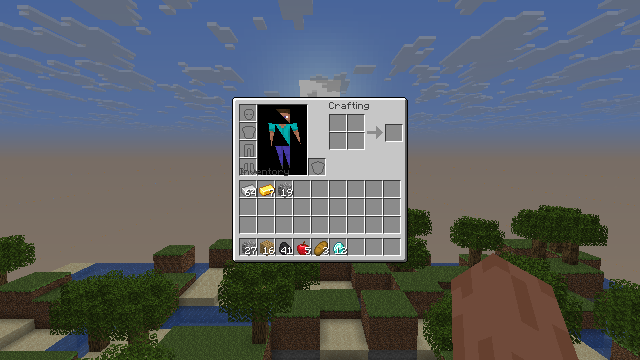
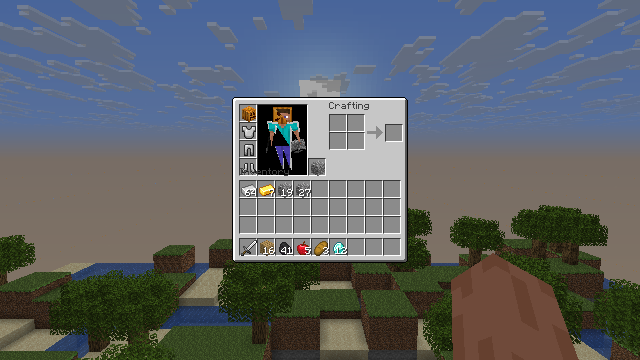
client: the mannequin's gear shot — the inventory staging dresses the PiP the whole layer stack the last four rounds shipped: the staging helper stage_inventory_loadout fills the store the shot recipe freezes (the SELECTED slot's iron sword the held-item lane rides, the carved pumpkin the head slot'

Changed region(s): [[0.375, 0.275, 0.5312, 0.55], [0.375, 0.6722, 0.4062, 0.7333]]

diff --git a/crates/mc-client/src/headless.rs b/crates/mc-client/src/headless.rs
@@ -1363,6 +1363,71 @@ pub fn tick_scene(
     Ok(())
 }
 
+/// THE INVENTORY SCREEN'S OWN STAGING LOADOUT: the offline world stands
+/// first (the mannequin's world beneath), then the store's demo loadout
+/// — the REAL gameplay state the dig lane's pickups fill (the hotbar
+/// row store 0..9, the main rows 9..36, the way the `--held-item` stage
+/// speaks for the hand) — plus THE GEAR SHOWCASE the mannequin lanes
+/// render: the SELECTED slot's iron sword the held-item lane rides
+/// (the thirdperson_righthand stanza the ItemStackRenderState submit
+/// folds), the four armor rows the armor + head-block lanes read (the
+/// carved pumpkin the head slot's item branch keeps, the iron kit the
+/// HumanoidArmorLayer walk renders), the offhand container 40 the
+/// left-hand mirror keeps. One frame, the whole PiP layer stack.
+fn stage_inventory_loadout(app: &mut crate::screens::App) {
+    app.enter_world();
+    let sword = mc_registry::item_id_by_name("iron_sword").expect("the registry speaks");
+    let pumpkin = mc_registry::item_id_by_name("carved_pumpkin").expect("the registry speaks");
+    let chest = mc_registry::item_id_by_name("iron_chestplate").expect("the registry speaks");
+    let legs = mc_registry::item_id_by_name("iron_leggings").expect("the registry speaks");
+    let boots = mc_registry::item_id_by_name("iron_boots").expect("the registry speaks");
+    app.inventory.items = [
+        (sword, 1), // the SELECTED slot — the mannequin's main hand rides it
+        (63, 16),   // oak_planks
+        (924, 41),  // coal
+        (921, 5),   // apple
+        (981, 3),   // bread
+        (926, 12),  // diamond
+        (0, 0),
+        (0, 0),
+        (0, 0), // the hotbar row's tail
+        (932, 64),  // iron_ingot
+        (936, 7),   // gold_ingot
+        (62, 19),   // cobblestone
+        (62, 27),   // the dig's own stack — the sword displaced it to the first free main row
+        (0, 0),
+        (0, 0),
+        (0, 0),
+        (0, 0),
+        (0, 0),
+        (0, 0),
+        (0, 0),
+        (0, 0),
+        (0, 0),
+        (0, 0),
+        (0, 0),
+        (0, 0),
+        (0, 0),
+        (0, 0),
+        (0, 0),
+        (0, 0),
+        (0, 0),
+        (0, 0),
+        (0, 0),
+        (0, 0),
+        (0, 0),
+        (0, 0),
+        (0, 0), // the main rows' tail
+    ];
+    app.inventory.armor = [
+        (pumpkin, 1), // the head slot — the carved face the head-block lane paints
+        (chest, 1),
+        (legs, 1),
+        (boots, 1), // the iron kit the armor layers wear
+    ];
+    app.inventory.offhand = [(62, 1)]; // the left hand's cobble — the offhand mirror lane
+}
+
 /// Render one deterministic GUI screen (boot chain / menus) to PNG.
 /// `frame` drives boot progress, splash pulse and music scheduling.
 /// `held_item` (a model id, e.g. "item/iron_sword") holds that item in
@@ -1864,50 +1929,12 @@ pub fn render_gui_screen_opts(
         "inventory" => {
             // THE E-KEY SCREEN'S OWN STAGING: the offline world stands
             // first (the mannequin's world beneath), then the store's
-            // demo loadout — the REAL gameplay state the dig lane's
-            // pickups fill, the shot staging pre-filling it the way the
-            // `--held-item` stage speaks for the hand (the hotbar row
-            // store 0..9, the main rows 9..36) — and the screen opens
-            // (the E key's own lane, the carried fresh-empty).
-            app.enter_world();
-            app.inventory.items = [
-                (62, 27),   // cobblestone
-                (63, 16),   // oak_planks
-                (924, 41),  // coal
-                (921, 5),   // apple
-                (981, 3),   // bread
-                (926, 12),  // diamond
-                (0, 0),
-                (0, 0),
-                (0, 0), // the hotbar row's tail
-                (932, 64),  // iron_ingot
-                (936, 7),   // gold_ingot
-                (62, 19),   // cobblestone
-                (0, 0),
-                (0, 0),
-                (0, 0),
-                (0, 0),
-                (0, 0),
-                (0, 0),
-                (0, 0),
-                (0, 0),
-                (0, 0),
-                (0, 0),
-                (0, 0),
-                (0, 0),
-                (0, 0),
-                (0, 0),
-                (0, 0),
-                (0, 0),
-                (0, 0),
-                (0, 0),
-                (0, 0),
-                (0, 0),
-                (0, 0),
-                (0, 0),
-                (0, 0),
-                (0, 0), // the main rows' tail
-            ];
+            // demo loadout PLUS the gear showcase the mannequin lanes
+            // render (the sword the held lane rides, the pumpkin + iron
+            // kit the armor walk wears, the offhand the left-hand mirror
+            // keeps) — and the screen opens (the E key's own lane, the
+            // carried fresh-empty).
+            stage_inventory_loadout(&mut app);
             app.hotbar_slots = app.inventory.hotbar();
             app.open_inventory();
             app.frame = frame;
@@ -2191,6 +2218,54 @@ mod tests {
         assert!(app.body.is_none());
         assert!(app.mobs.is_empty());
         assert!(app.perspective.is_first_person());
+    }
+
+    /// THE GEAR SHOWCASE's own store: the inventory staging the shot
+    /// recipe speaks dresses the mannequin through the SAME rows the
+    /// PiP lanes read — the SELECTED slot's sword the held-item lane
+    /// rides, the four armor rows the armor + head-block lanes read,
+    /// the offhand container the left-hand mirror keeps, the dig's
+    /// displaced cobble the first free main row holds (the loadout's
+    /// own honesty: a replaced stack is never lost), the HUD row the
+    /// hotbar sync law keeps.
+    #[test]
+    fn the_inventory_staging_dresses_the_mannequin() {
+        let mut app = crate::screens::App::new(3);
+        stage_inventory_loadout(&mut app);
+        let sword = mc_registry::item_id_by_name("iron_sword").unwrap();
+        let pumpkin = mc_registry::item_id_by_name("carved_pumpkin").unwrap();
+        let chest = mc_registry::item_id_by_name("iron_chestplate").unwrap();
+        let legs = mc_registry::item_id_by_name("iron_leggings").unwrap();
+        let boots = mc_registry::item_id_by_name("iron_boots").unwrap();
+        // the SELECTED slot holds the sword — the held-item lane's main
+        // hand (selected_hotbar defaults 0, the rest pose's own lane)
+        assert_eq!(
+            app.inventory.items[app.selected_hotbar],
+            (sword, 1),
+            "the mannequin's main hand holds the sword"
+        );
+        // the four armor rows: the carved pumpkin the head-block lane
+        // paints, the iron kit the armor layers wear
+        assert_eq!(
+            app.inventory.armor,
+            [(pumpkin, 1), (chest, 1), (legs, 1), (boots, 1)],
+            "the mannequin wears the pumpkin + the iron kit"
+        );
+        // the offhand container 40 — the left-hand mirror's stack
+        assert_eq!(
+            app.inventory.offhand,
+            [(62, 1)],
+            "the left hand holds the cobble"
+        );
+        // the displaced cobblestone stack landed the first free main
+        // row slot (the loadout never loses a stack it replaces)
+        assert_eq!(app.inventory.items[12], (62, 27), "the dig's stack survives");
+        // the HUD row rides the hotbar sync law (the shot arm's own step)
+        app.hotbar_slots = app.inventory.hotbar();
+        assert_eq!(app.hotbar_slots[0], (sword, 1), "the HUD names the sword");
+        // the world stands beneath (the mannequin's backdrop the recipe
+        // freezes at frame 6)
+        assert!(app.spawn_y > 0, "the offline world stands");
     }
 
     /// The body seed stands on the spawn column's surface facing east,

diff --git a/crates/mc-client/src/avatar.rs b/crates/mc-client/src/avatar.rs
@@ -5237,7 +5237,14 @@ mod tests {
     /// THE EQUIPMENT TEXTURES LOAD (the runtime cache's own verdict —
     /// the generator's extraction carries the humanoid and
     /// humanoid_leggings layer pngs the sha1 table pins, each the
-    /// 64x32 layout the armor UVs speak).
+    /// 64x32 layout the armor UVs speak). The decode's honesty rides
+    /// the EXACT opaque-texel count per layer — the png crate's EXPAND
+    /// decode must reproduce every layer's alpha mask VERBATIM (the
+    /// PIL ground truth the round's own walk spoke): the chainmail's
+    /// mesh holes and the leather overlay's trim-only coverage are
+    /// REAL vanilla transparency — the former per-texel probe wrongly
+    /// demanded every layer opaque at (8,8) and the mesh's holes
+    /// refused — the count law replaces it.
     #[test]
     #[ignore = "needs runtime assets (assets-cache/jar) from mc2rs-gen generate"]
     fn the_equipment_textures_load_sha1_verified() {
@@ -5250,14 +5257,58 @@ mod tests {
             dir = dir.parent().expect("the runtime root above").to_path_buf();
         };
         use mc_registry::generated::equipment;
+        // the EXACT opaque-texel counts the 64x32 layers speak (the
+        // RGBA decode's own alpha mask, texel-verbatim)
+        const HUMANOID_OPAQUE: &[(&str, usize)] = &[
+            ("chainmail", 389),
+            ("copper", 648),
+            ("diamond", 632),
+            ("gold", 648),
+            ("iron", 648),
+            ("leather", 660),
+            ("leather_overlay", 52),
+            ("netherite", 699),
+            ("turtle_scute", 216),
+        ];
+        const LEGGINGS_OPAQUE: &[(&str, usize)] = &[
+            ("chainmail", 137),
+            ("copper", 280),
+            ("diamond", 280),
+            ("gold", 280),
+            ("iron", 280),
+            ("leather", 280),
+            ("leather_overlay", 108),
+            ("netherite", 272),
+        ];
+        let opaque_count = |t: &ArmorTex| t.rgba.chunks_exact(4).filter(|p| p[3] == 255).count();
         for tex in equipment::EQUIPMENT_ASSETS {
             let humanoid = ArmorTex::load(&root, equipment::HUMANOID_DIR, tex)
                 .expect("the humanoid layer loads");
-            assert_eq!(humanoid.pixel(8.0, 8.0)[3], 255, "the layer texel is opaque");
+            let want = HUMANOID_OPAQUE
+                .iter()
+                .find(|(n, _)| *n == tex.name)
+                .map(|(_, c)| *c)
+                .unwrap_or_else(|| panic!("{} missing from the count table", tex.name));
+            assert_eq!(
+                opaque_count(&humanoid),
+                want,
+                "the {} humanoid layer's opaque mask",
+                tex.name
+            );
             if let Some(_) = tex.leggings {
                 let leggings = ArmorTex::load(&root, equipment::LEGGINGS_DIR, tex)
                     .expect("the leggings layer loads");
-                assert_eq!(leggings.pixel(8.0, 8.0)[3], 255, "the layer texel is opaque");
+                let want = LEGGINGS_OPAQUE
+                    .iter()
+                    .find(|(n, _)| *n == tex.name)
+                    .map(|(_, c)| *c)
+                    .unwrap_or_else(|| panic!("{} missing from the count table", tex.name));
+                assert_eq!(
+                    opaque_count(&leggings),
+                    want,
+                    "the {} leggings layer's opaque mask",
+                    tex.name
+                );
             }
         }
         // the honest miss: the leggings dir the table never named

diff --git a/shots/README.md b/shots/README.md
@@ -974,7 +974,7 @@ cargo run -p mc-client --release -- --headless --screen world --seed 42 \
 
 | frame | the scene |
 |---|---|
-| `inventory_screen.png` | THE E-KEY SCREEN'S OWN PIXELS (v0.3.228): the survival inventory the vanilla InventoryScreen renders over the frozen world — the LEGACY background texture the 26.2's INVENTORY_LOCATION blit keeps (the sprite migration the one container left texture-based, the 176x166 region of the 256x256 canvas at leftPos/topPos), the REAL 36-slot store's icons and counts (the hotbar row store 0..9, the main rows store 9..36 — the chest's icon/count law verbatim, the demo loadout the staging fills the same store the dig lane's pickups fill), the MANNEQUIN the 26.2 extractEntityInInventoryFollowsMouse draws (the PiP chain the bytecode pins: the ortho window the rect's own 49x70 times the gui scale, the scale-30 pose the -z mirror carries, the T(0, bbHeight/2 + 0.0625, 0) lift the Vector3f ctor speaks, the Rz(π)∘Rx(pitch) rotation the JOML mul order pins — the feet 28.875 px below the rect center, the head 25.125 above, the vanilla's slightly-low placement), the atan turn law the mouse leans (the neutral pose the headless staging honestly keeps — no mouse the headless frames speak), the two labels the base extractLabels draws ("Crafting" at (97, 6), "Inventory" at (8, imageHeight−94) — the init's own isub fold — the 0x404040 no-shadow draw); the offline click walks ride beneath (the pickup/split/quick-move predictions over the player's OWN store, the E/Escape round-trip, the carried's add-back close) — the commands the shot list keeps |
+| `inventory_screen.png` | THE E-KEY SCREEN'S OWN PIXELS (v0.3.228 staged, v0.3.244 dresses the mannequin): the survival inventory the vanilla InventoryScreen renders over the frozen world — the LEGACY background texture the 26.2's INVENTORY_LOCATION blit keeps (the sprite migration the one container left texture-based, the 176x166 region of the 256x256 canvas at leftPos/topPos), the REAL 36-slot store's icons and counts (the hotbar row store 0..9, the main rows store 9..36 — the chest's icon/count law verbatim, the demo loadout the staging fills the same store the dig lane's pickups fill), the MANNEQUIN the 26.2 extractEntityInInventoryFollowsMouse draws (the PiP chain the bytecode pins: the ortho window the rect's own 49x70 times the gui scale, the scale-30 pose the -z mirror carries, the T(0, bbHeight/2 + 0.0625, 0) lift the Vector3f ctor speaks, the Rz(π)∘Rx(pitch) rotation the JOML mul order pins — the feet 28.875 px below the rect center, the head 25.125 above, the vanilla's slightly-low placement), THE GEAR SHOWCASE the armor/head-block/held/offhand lanes render (the carved pumpkin the head slot's item branch paints, the iron chestplate/leggings/boots the HumanoidArmorLayer walk wears — the sparse torso-front coverage the NEXT dig names, the iron sword the selected slot's held lane rides, the offhand cobble the left-hand mirror keeps), the atan turn law the mouse leans (the neutral pose the headless staging honestly keeps — no mouse the headless frames speak), the two labels the base extractLabels draws ("Crafting" at (97, 6), "Inventory" at (8, imageHeight−94) — the init's own isub fold — the 0x404040 no-shadow draw); the offline click walks ride beneath (the pickup/split/quick-move predictions over the player's OWN store, the E/Escape round-trip, the carried's add-back close) — the commands the shot list keeps |
 
 Regenerate the lane:
 
